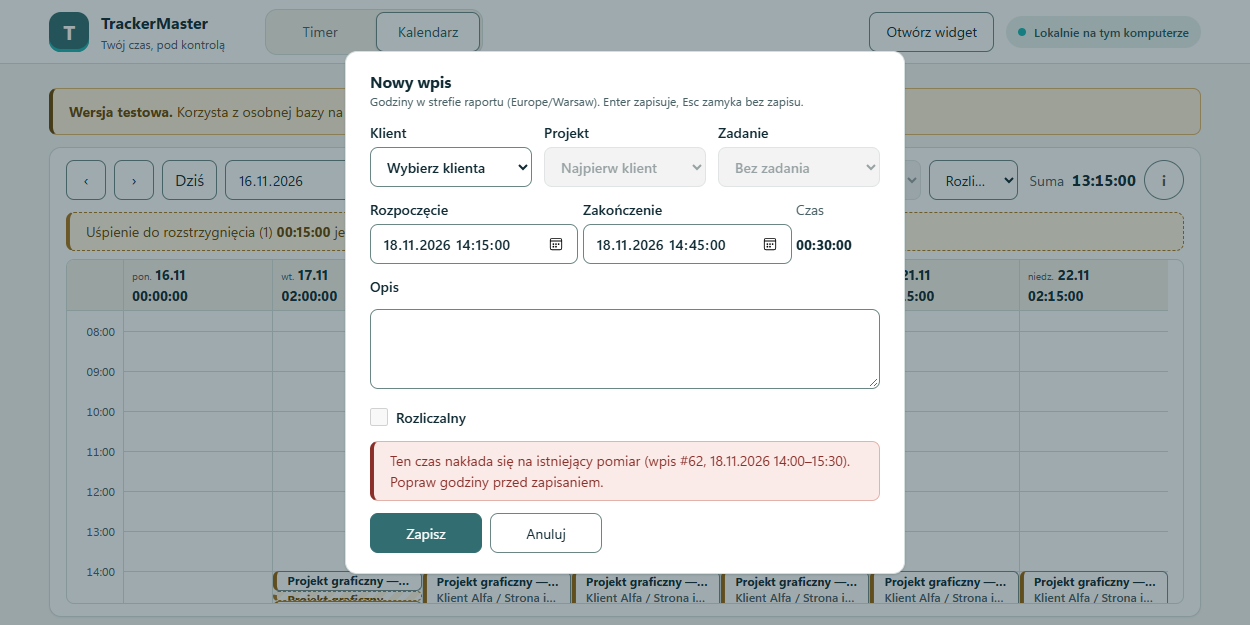
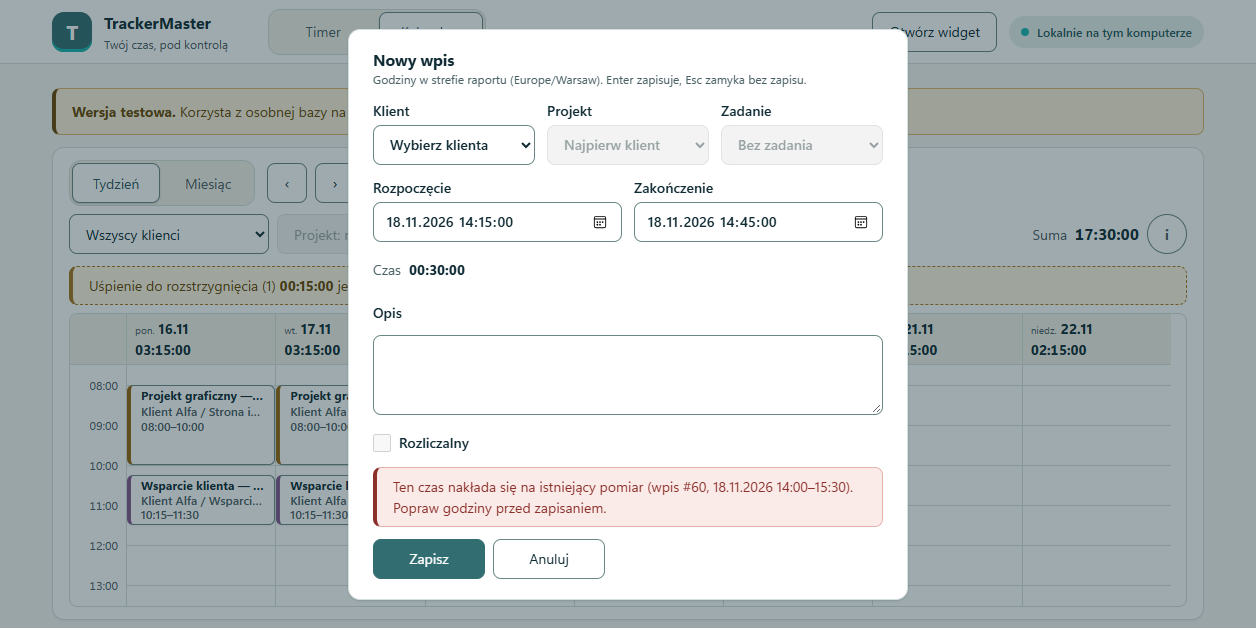
fix(DEV-26): date-time fields of the calendar form never overlap (en-US)
The E2E screenshots of c6e460a (run 45475492495, Windows runner in en-US)
showed the start field drawn under the end field and the end field over
the length: "03/11/2026 10:15:00 AM" needs ~241 px, while the time labels
(flex 1 1 150px, min-width: 0) shrank to ~201 px, and a 100 %-wide input
adds nothing to its label's minimum width. The pl format just fitted, so
the preview did not show it.

- Time labels keep min-width: auto and the fields min-width: max-content,
  so a field is never narrower than its text; when they do not fit in one
  line the next item wraps. "Czas" is one 40 px line ("Czas 00:30:00").
- E2E UI_LAYOUT of the dialog also asserts that no field, the length or an
  action button overlaps another or crosses the dialog edge (checked in
  headless Edge en-US: the old CSS gives "Rozpoczęcie / Zakończenie", the
  new CSS none, in en-US and pl, at 1280x720 and 125 %).
- Preview screenshots in docs/screenshots regenerated (form and the week
  toolbar with the Tydzień | Miesiąc switch).

diff --git a/src/calendarEntry.css b/src/calendarEntry.css
@@ -9,8 +9,12 @@
 .calendar-entry-row { display: flex; flex-wrap: wrap; align-items: flex-end; gap: var(--space-2) var(--space-3); margin-bottom: var(--space-3); }
 .calendar-entry-row > label { display: flex; flex: 1 1 150px; flex-direction: column; gap: var(--space-1); min-width: 0; font-size: var(--text-sm); }
 .app-shell .calendar-entry-dialog select, .app-shell .calendar-entry-dialog input[type='datetime-local'] { min-height: var(--control-h); width: 100%; box-sizing: border-box; }
-.calendar-entry-length { display: flex; flex-direction: column; gap: var(--space-1); margin: 0; min-width: 84px; font-size: var(--text-sm); color: var(--color-text-muted); }
-.calendar-entry-length strong { display: flex; align-items: center; min-height: var(--control-h); color: var(--color-text); font-variant-numeric: tabular-nums; }
+/* A date-time field never gets narrower than its own text (en-US "03/11/2026 10:15:00 AM" is wider than pl);
+   when two fields and the length do not fit in one line, the next one wraps instead of overlapping (CI c6e460a). */
+.calendar-entry-row > label.calendar-entry-time { flex: 1 1 200px; min-width: auto; }
+.app-shell .calendar-entry-dialog input[type='datetime-local'] { min-width: max-content; }
+.calendar-entry-length { display: flex; align-items: center; gap: var(--space-2); min-height: var(--control-h); margin: 0; min-width: 84px; font-size: var(--text-sm); color: var(--color-text-muted); }
+.calendar-entry-length strong { color: var(--color-text); font-variant-numeric: tabular-nums; }
 .calendar-entry-description { display: flex; flex-direction: column; gap: var(--space-1); margin-bottom: var(--space-3); font-size: var(--text-sm); }
 .app-shell .calendar-entry-description textarea { min-height: calc(2 * var(--control-h)); width: 100%; box-sizing: border-box; resize: vertical; }
 .calendar-entry-billable { display: inline-flex; align-items: center; gap: var(--space-2); min-height: var(--control-h); margin-bottom: var(--space-2); font-size: var(--text-sm); cursor: pointer; }

diff --git a/src/CalendarEntryDialog.tsx b/src/CalendarEntryDialog.tsx
@@ -225,9 +225,9 @@ export default function CalendarEntryDialog({ request, zone, now, catalog, data,
               </select></label>
             </div>}
           <div className="calendar-entry-row">
-            <label>Rozpoczęcie<input ref={ref('start')} type="datetime-local" step={1} required value={form.start} disabled={timeDisabled}
+            <label className="calendar-entry-time">Rozpoczęcie<input ref={ref('start')} type="datetime-local" step={1} required value={form.start} disabled={timeDisabled}
               aria-invalid={invalid('start')} aria-describedby={described('start')} onChange={event => change({ start: event.target.value.length === 16 ? `${event.target.value}:00` : event.target.value })} /></label>
-            <label>Zakończenie<input ref={ref('end')} type="datetime-local" step={1} required value={form.end} disabled={timeDisabled}
+            <label className="calendar-entry-time">Zakończenie<input ref={ref('end')} type="datetime-local" step={1} required value={form.end} disabled={timeDisabled}
               aria-invalid={invalid('end')} aria-describedby={described('end')} onChange={event => change({ end: event.target.value.length === 16 ? `${event.target.value}:00` : event.target.value })} /></label>
             <p className="calendar-entry-length" aria-live="polite"><span>Czas</span> <strong>{length ?? '—'}</strong></p>
           </div>
